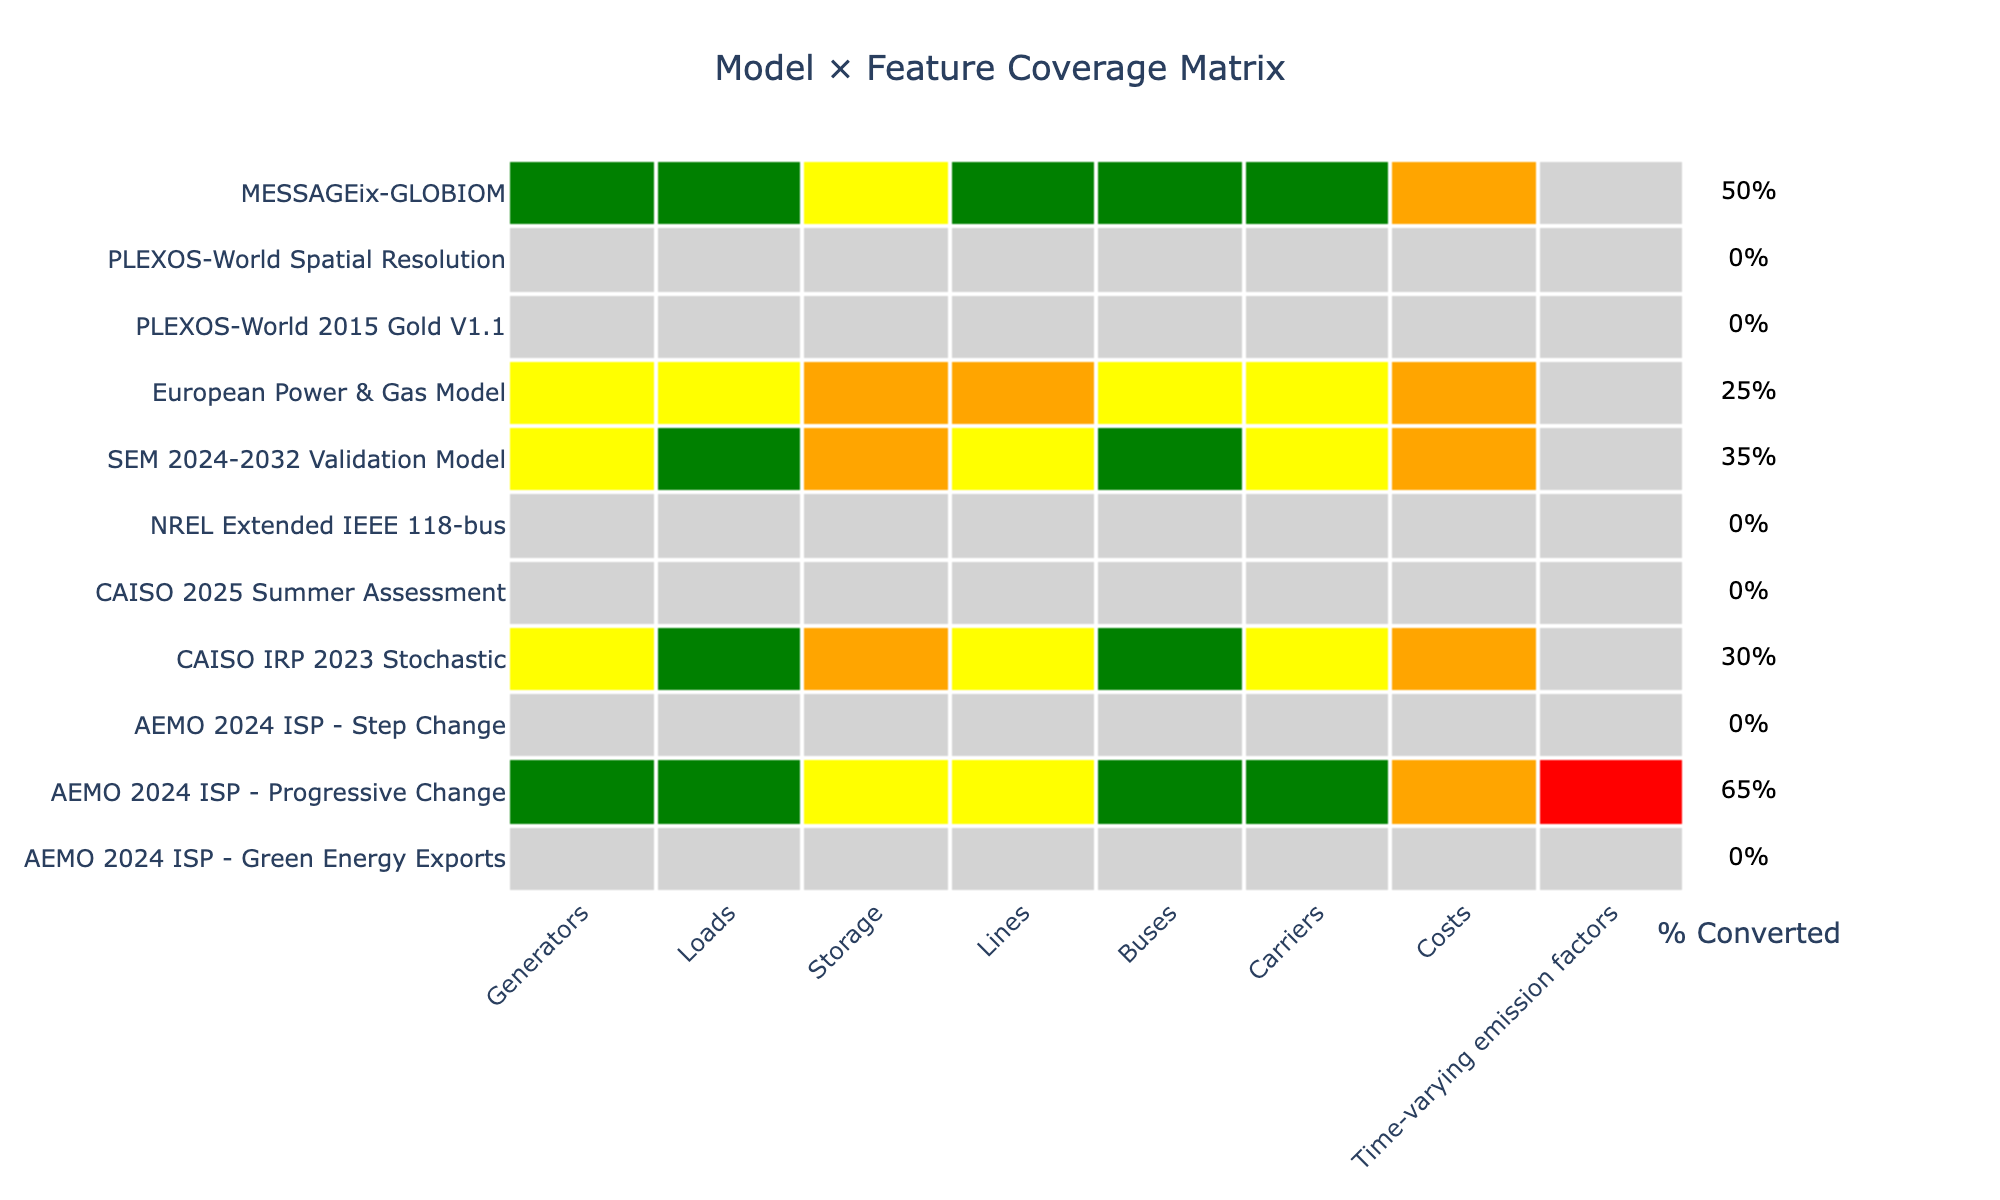
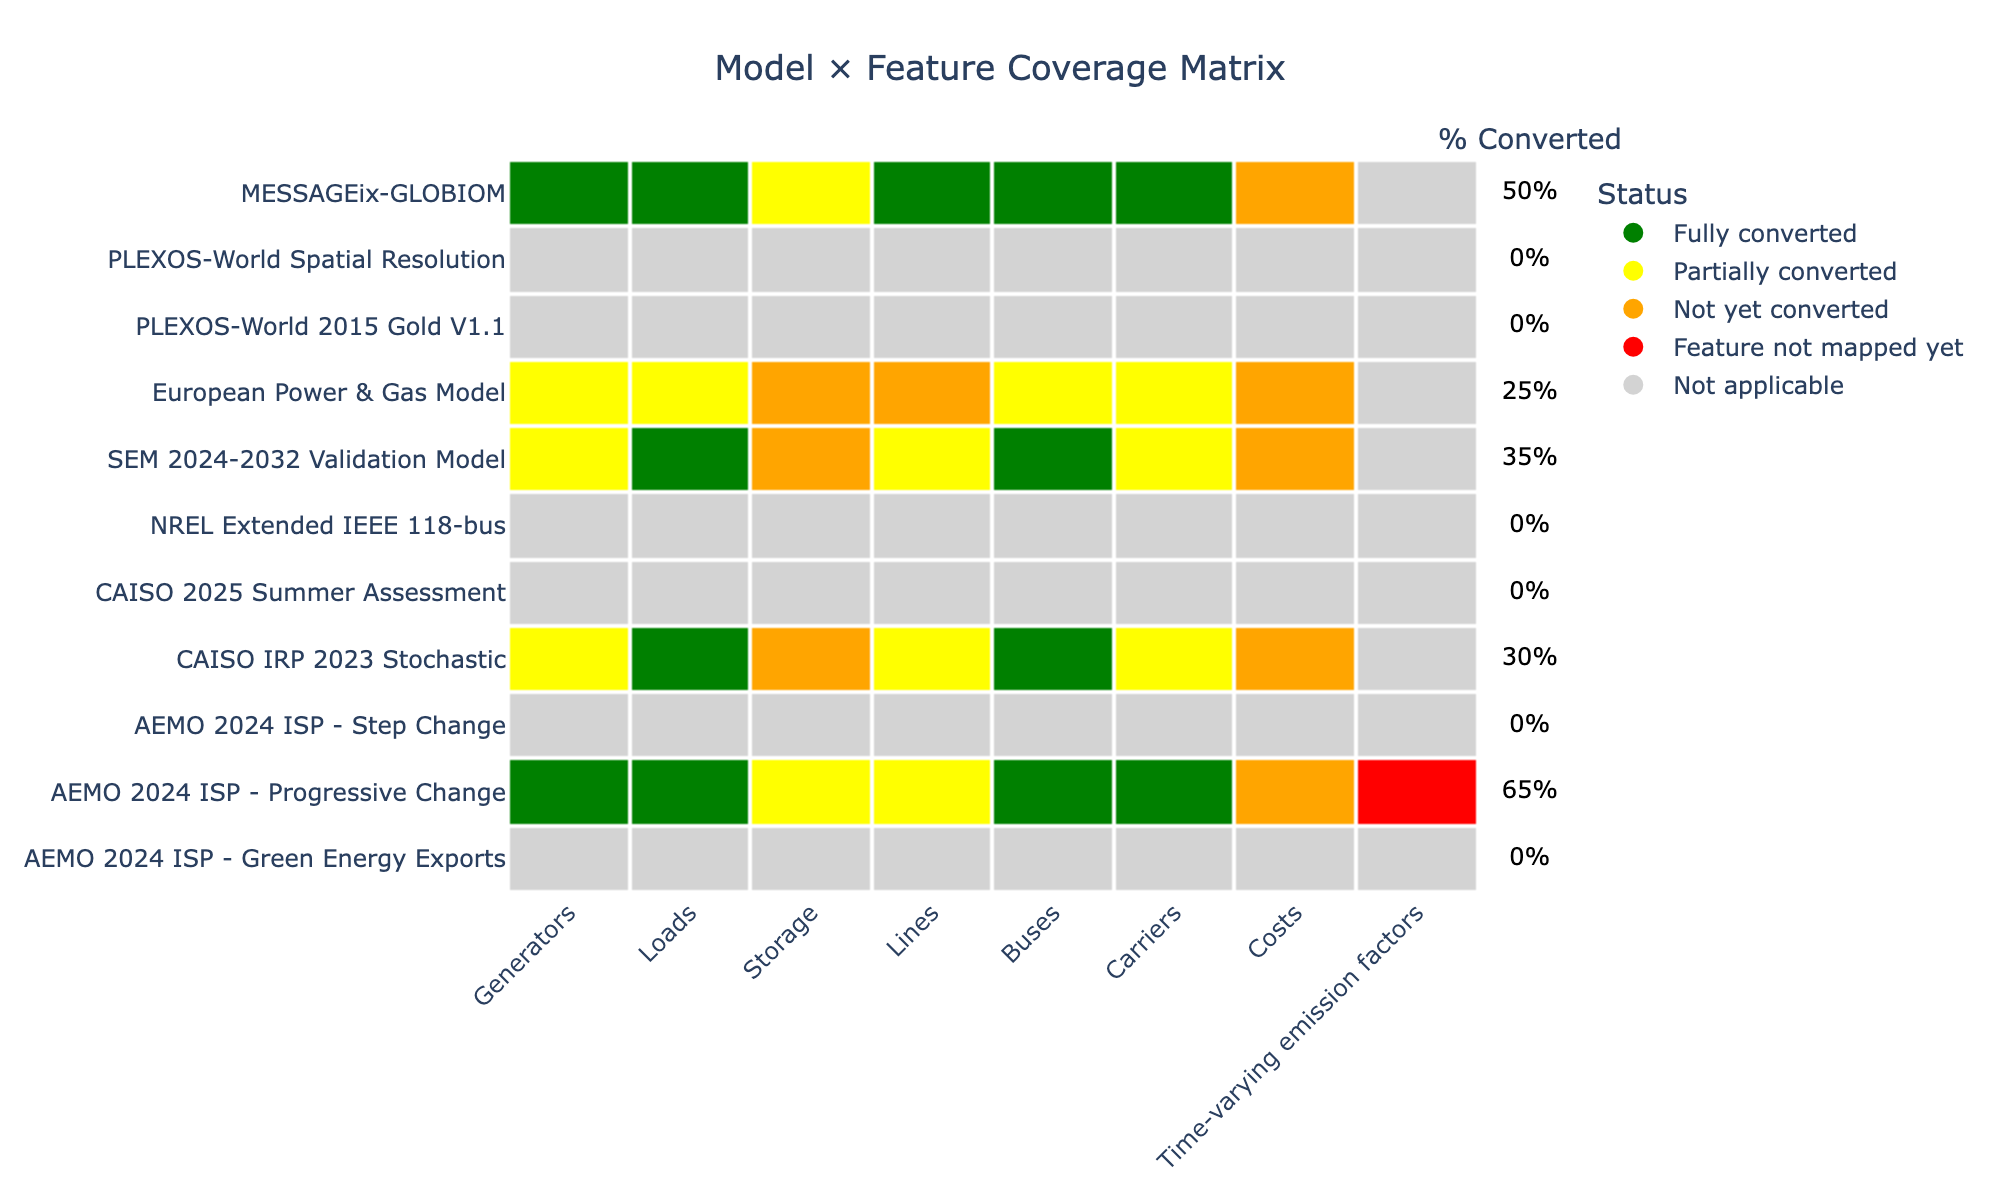
docs: add legend and move % converted title

diff --git a/doc/visualization/generate_coverage_heatmap.py b/doc/visualization/generate_coverage_heatmap.py
@@ -137,6 +137,38 @@ def create_heatmap_figure(models_data: dict, coverage_data: dict) -> go.Figure:
         col=2,
     )
 
+    # Add legend traces (invisible markers for legend only)
+    legend_statuses = [
+        {"status": "converted", "label": "Fully converted", "color": "green"},
+        {"status": "partial", "label": "Partially converted", "color": "yellow"},
+        {
+            "status": "not_yet_implemented",
+            "label": "Not yet converted",
+            "color": "orange",
+        },
+        {
+            "status": "feature_not_covered",
+            "label": "Feature not mapped yet",
+            "color": "red",
+        },
+        {"status": "not_applicable", "label": "Not applicable", "color": "lightgray"},
+    ]
+
+    for legend_item in legend_statuses:
+        fig.add_trace(
+            go.Scatter(
+                x=[None],
+                y=[None],
+                mode="markers",
+                marker={"size": 10, "color": legend_item["color"]},
+                name=legend_item["label"],
+                showlegend=True,
+                legendgroup="status",
+            ),
+            row=1,
+            col=1,
+        )
+
     # Update layout
     fig.update_layout(
         title={
@@ -147,7 +179,16 @@ def create_heatmap_figure(models_data: dict, coverage_data: dict) -> go.Figure:
         height=600,
         width=1200,
         autosize=False,
-        margin={"l": 250, "r": 100, "t": 80, "b": 150},
+        margin={"l": 250, "r": 180, "t": 80, "b": 150},
+        showlegend=True,
+        legend={
+            "title": {"text": "Status"},
+            "orientation": "v",
+            "yanchor": "top",
+            "y": 0.99,
+            "xanchor": "left",
+            "x": 1.02,
+        },
     )
 
     # Update x-axis for heatmap
@@ -159,7 +200,8 @@ def create_heatmap_figure(models_data: dict, coverage_data: dict) -> go.Figure:
     # Update axes for percentage column
     fig.update_xaxes(
         showticklabels=False,
-        title="% Converted",
+        title={"text": "% Converted", "standoff": 0},
+        side="top",
         range=[0, 1],
         showgrid=False,
         zeroline=False,
